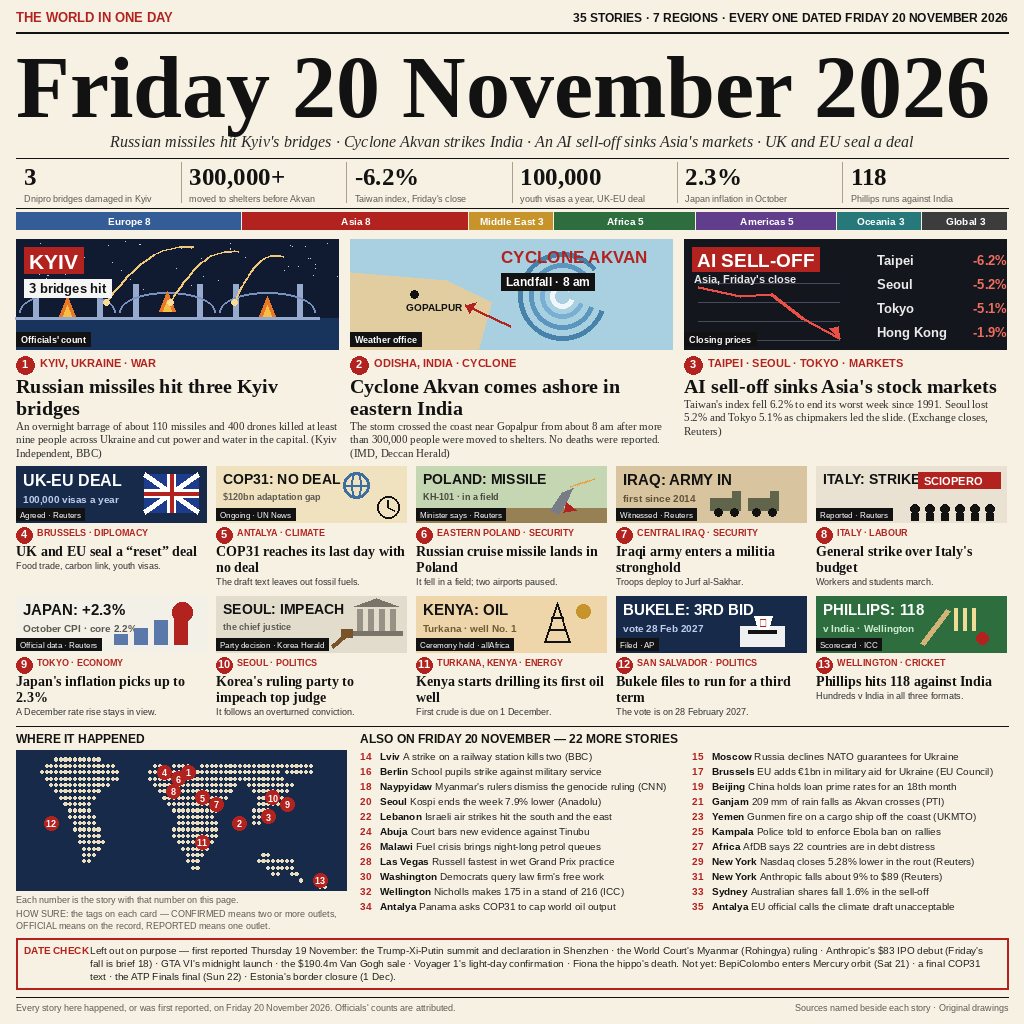
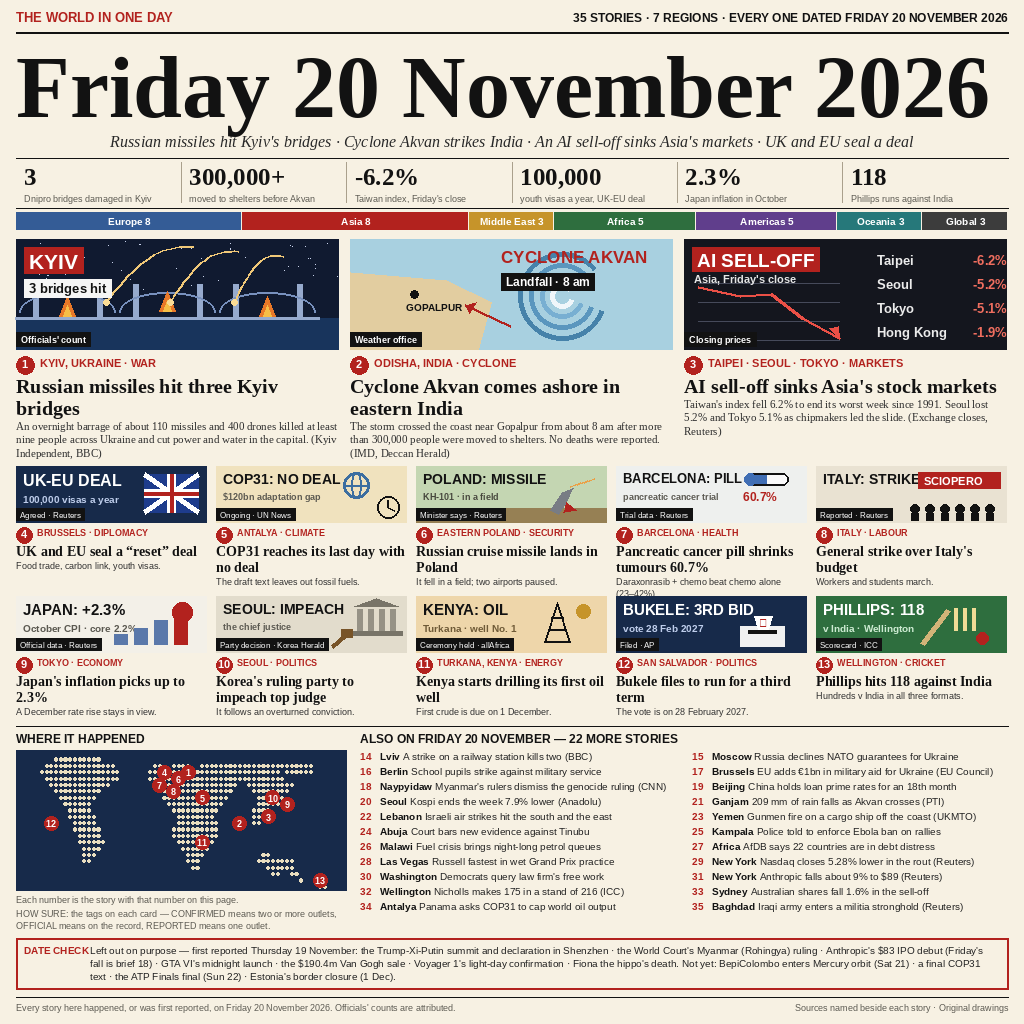
v6: Barcelona cancer-pill card in for the Iraq card (Iraq moves to briefs, weakest Antalya brief out) on top of v5

Changed region(s): [[0.5938, 0.4375, 0.8125, 0.5938], [0.6875, 0.875, 0.9375, 0.9062], [0.1875, 0.7812, 0.2188, 0.8125]]

diff --git a/generate.py b/generate.py
@@ -83,10 +83,10 @@ MEDIUMS = [
          strip="Minister says · Reuters",
          head="Russian cruise missile lands in Poland",
          cap="It fell in a field; two airports paused."),
-    dict(n=7, label="CENTRAL IRAQ · SECURITY", art="iraq",
-         strip="Witnessed · Reuters",
-         head="Iraqi army enters a militia stronghold",
-         cap="Troops deploy to Jurf al-Sakhar."),
+    dict(n=7, label="BARCELONA · HEALTH", art="pill",
+         strip="Trial data · Reuters",
+         head="Pancreatic cancer pill shrinks tumours 60.7%",
+         cap="Daraxonrasib + chemo beat chemo alone (23\u201342%)."),
     dict(n=8, label="ITALY · LABOUR", art="italy", strip="Reported · Reuters",
          head="General strike over Italy's budget",
          cap="Workers and students march."),
@@ -133,7 +133,7 @@ BRIEFS = [
     ("Wellington", "Nicholls makes 175 in a stand of 216 (ICC)"),
     ("Sydney", "Australian shares fall 1.6% in the sell-off"),
     ("Antalya", "Panama asks COP31 to cap world oil output"),
-    ("Antalya", "EU official calls the climate draft unacceptable"),
+    ("Baghdad", "Iraqi army enters a militia stronghold (Reuters)"),
 ]
 
 DATE_CHECK = (
@@ -322,6 +322,19 @@ def art_iraq(d, x, y, w, h):
         d.ellipse([tx + 20, ty + 10, tx + 28, ty + 18], fill=INK)
 
 
+def art_pill(d, x, y, w, h):
+    d.rectangle([x, y, x + w, y + h], fill=(238, 240, 238))
+    d.text((x + 7, y + 5), "BARCELONA: PILL", font=F(SANS_B, 13), fill=INK)
+    d.text((x + 7, y + 25), "pancreatic cancer trial", font=F(SANS_B, 9),
+           fill=GREY)
+    cx, cy = x + w - 40, y + 13  # capsule icon, top-right
+    d.rounded_rectangle([cx - 22, cy - 6, cx + 22, cy + 6], radius=6,
+                        fill=(250, 250, 250), outline=INK, width=2)
+    d.ellipse([cx - 22, cy - 6, cx - 10, cy + 6], fill=(64, 110, 180))
+    d.rectangle([cx - 17, cy - 4, cx, cy + 4], fill=(64, 110, 180))
+    d.text((x + w - 63, y + 24), "60.7%", font=F(SANS_B, 12), fill=RED)
+
+
 def art_italy(d, x, y, w, h):
     d.rectangle([x, y, x + w, y + h], fill=(233, 226, 210))
     d.text((x + 7, y + 5), "ITALY: STRIKE", font=F(SANS_B, 14), fill=INK)
@@ -398,7 +411,7 @@ def art_cricket(d, x, y, w, h):
 MED_ART = {"ukeu": art_ukeu, "cop": art_cop, "poland": art_poland,
            "iraq": art_iraq, "italy": art_italy, "japan": art_japan,
            "seoul": art_seoul, "kenya": art_kenya, "bukele": art_bukele,
-           "cricket": art_cricket}
+           "cricket": art_cricket, "pill": art_pill}
 
 
 # ---------------------------------------------------------------- map
@@ -427,7 +440,7 @@ MAP_ROWS = [
     "                                                                ##    ",
 ]
 PINS = {1: (36, 3), 2: (47, 11), 3: (53, 10), 4: (31, 3), 5: (39, 7),
-        6: (34, 4), 7: (42, 8), 8: (33, 6), 9: (57, 8), 10: (54, 7),
+        6: (34, 4), 7: (30, 5), 8: (33, 6), 9: (57, 8), 10: (54, 7),
         11: (39, 14), 12: (7, 11), 13: (64, 20)}
 
 
